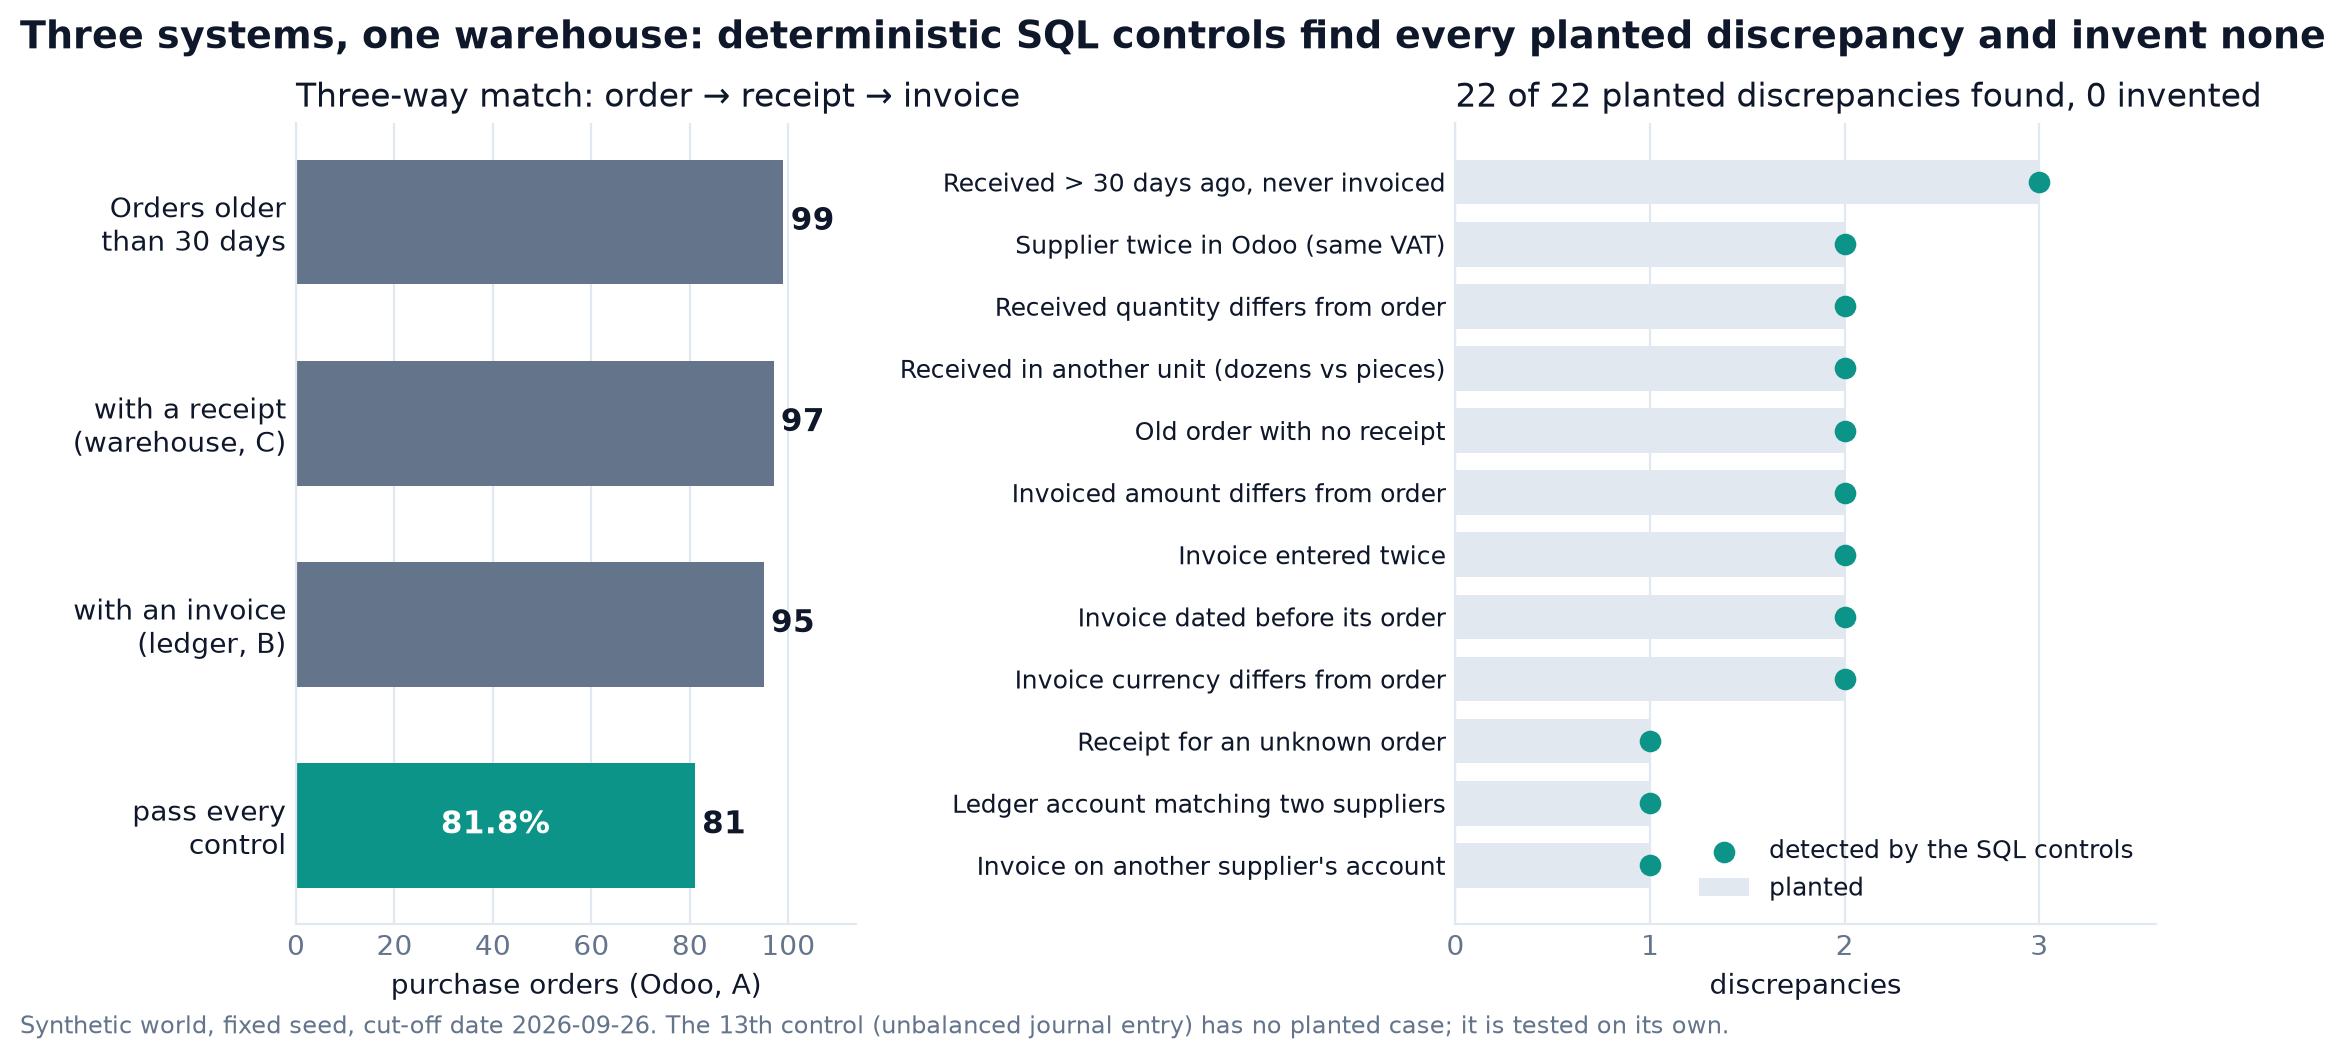
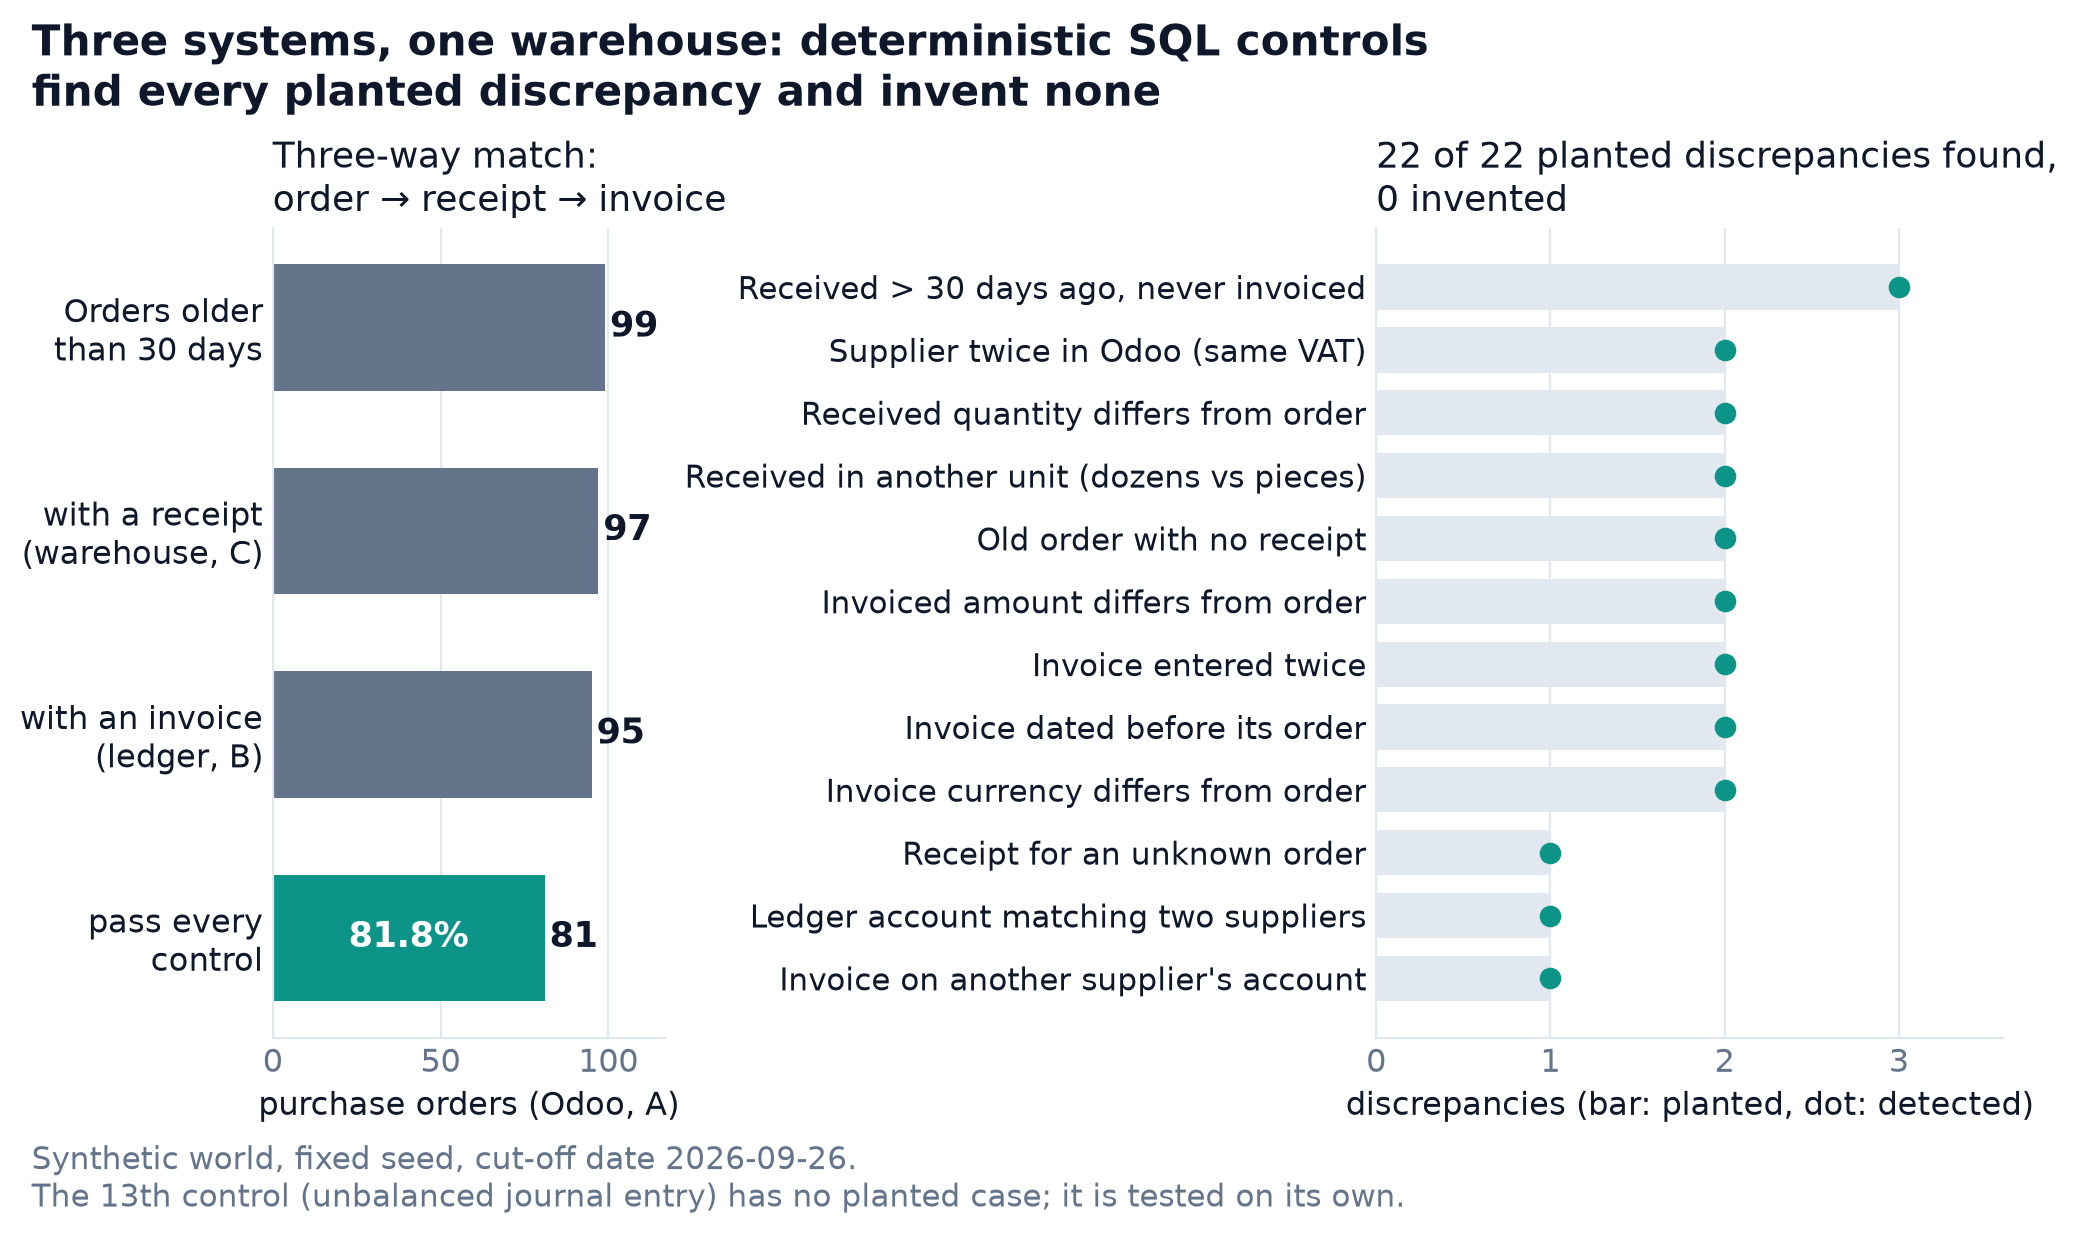
figures: hero labels readable at README width
Draw at 10 inches with 11-point labels instead of 12 inches with 9-point ones,
and label the planted/detected encoding on the axis instead of a legend that
covered the last rows. Same numbers, read from the warehouse.

Changed region(s): [[0.0, 0.0, 1.0, 0.9348], [0.0, 0.6856, 0.7395, 0.9972], [0.0, 0.5297, 0.339, 0.6544]]

diff --git a/scripts/hero_figure.py b/scripts/hero_figure.py
@@ -64,9 +64,18 @@ def main() -> None:
         raise SystemExit(f"no English label for {sorted(inconnues)}")
 
     plt.rcParams.update(
-        {"font.family": "DejaVu Sans", "text.color": INK, "axes.labelcolor": INK, "xtick.color": SLATE, "ytick.color": INK}
+        {
+            "font.family": "DejaVu Sans",
+            "font.size": 11.5,
+            "text.color": INK,
+            "axes.labelcolor": INK,
+            "xtick.color": SLATE,
+            "ytick.color": INK,
+        }
     )
-    fig, (gauche, droite) = plt.subplots(1, 2, figsize=(12, 5.2), gridspec_kw={"width_ratios": [1, 1.25], "wspace": 0.95})
+    # GitHub shows README images about 840 px wide: at 10 inches and 200 dpi, 11-point labels stay
+    # about 12 px on screen.
+    fig, (gauche, droite) = plt.subplots(1, 2, figsize=(10, 5.6), layout="constrained", gridspec_kw={"width_ratios": [1, 1.6]})
 
     # Left: the three-way match on purchase orders older than 30 days. Each bar counts from the
     # first one (an order can be invoiced without a receipt), so they are not nested subsets.
@@ -79,9 +88,9 @@ def main() -> None:
     y = range(len(etapes))[::-1]
     couleurs = [SLATE, SLATE, SLATE, TEAL]
     gauche.barh(list(y), [n for _, n in etapes], color=couleurs, height=0.62)
-    gauche.set_yticks(list(y), [e for e, _ in etapes], fontsize=10)
+    gauche.set_yticks(list(y), [e for e, _ in etapes], fontsize=11.5)
     for yi, (_, n) in zip(y, etapes, strict=True):
-        gauche.text(n + 1.5, yi, str(n), va="center", fontsize=11, color=INK, fontweight="bold")
+        gauche.text(n + 1.5, yi, str(n), va="center", fontsize=12.5, color=INK, fontweight="bold")
     part = voies["conformes"] / voies["commandes"]
     gauche.text(
         voies["conformes"] / 2,
@@ -90,26 +99,28 @@ def main() -> None:
         va="center",
         ha="center",
         color="white",
-        fontsize=11,
+        fontsize=12.5,
         fontweight="bold",
     )
-    gauche.set_xlim(0, voies["commandes"] * 1.15)
+    gauche.set_xlim(0, voies["commandes"] * 1.18)
     gauche.set_xlabel("purchase orders (Odoo, A)")
-    gauche.set_title("Three-way match: order → receipt → invoice", loc="left", fontsize=12, color=INK)
+    gauche.set_title("Three-way match:\norder → receipt → invoice", loc="left", fontsize=13, color=INK)
 
     # Right: planted vs detected, per control.
     n_plantes, n_detectes = Counter(r for r, _ in plantes), Counter(r for r, _ in detectes)
     ordre = sorted(CONTROLES, key=lambda r: (n_plantes[r], CONTROLES[r]))
     yy = range(len(ordre))
-    droite.barh(list(yy), [n_plantes[r] for r in ordre], color=GRID, height=0.72, label="planted")
-    droite.scatter([n_detectes[r] for r in ordre], list(yy), color=TEAL, s=46, zorder=3, label="detected by the SQL controls")
-    droite.set_yticks(list(yy), [CONTROLES[r] for r in ordre], fontsize=9)
+    droite.barh(list(yy), [n_plantes[r] for r in ordre], color=GRID, height=0.72)
+    droite.scatter([n_detectes[r] for r in ordre], list(yy), color=TEAL, s=46, zorder=3)
+    droite.set_yticks(list(yy), [CONTROLES[r] for r in ordre], fontsize=11)
     droite.set_xticks(range(0, max(n_plantes.values()) + 1))
     droite.set_xlim(0, max(n_plantes.values()) + 0.6)
-    droite.set_xlabel("discrepancies")
-    droite.legend(loc="lower right", frameon=False, fontsize=9)
+    droite.set_xlabel("discrepancies (bar: planted, dot: detected)")
     droite.set_title(
-        f"{retrouves} of {len(plantes)} planted discrepancies found, {faux_positifs} invented", loc="left", fontsize=12, color=INK
+        f"{retrouves} of {len(plantes)} planted discrepancies found,\n{faux_positifs} invented",
+        loc="left",
+        fontsize=13,
+        color=INK,
     )
 
     for ax in (gauche, droite):
@@ -120,19 +131,21 @@ def main() -> None:
         ax.set_axisbelow(True)
 
     fig.suptitle(
-        "Three systems, one warehouse: deterministic SQL controls find every planted discrepancy and invent none",
+        "Three systems, one warehouse: deterministic SQL controls\nfind every planted discrepancy and invent none",
         x=0.01,
         ha="left",
-        fontsize=13.5,
+        fontsize=15,
         fontweight="bold",
         color=INK,
     )
     as_of = entrepot._lignes(cfg.entrepot, "SELECT as_of FROM parametres")[0]["as_of"]
     fig.text(
         0.01,
-        0.005,
-        f"Synthetic world, fixed seed, cut-off date {as_of}. The 13th control (unbalanced journal entry) has no planted case; it is tested on its own.",
-        fontsize=8.5,
+        -0.01,
+        f"Synthetic world, fixed seed, cut-off date {as_of}.\n"
+        "The 13th control (unbalanced journal entry) has no planted case; it is tested on its own.",
+        va="top",
+        fontsize=11,
         color=SLATE,
     )
     SORTIE.parent.mkdir(parents=True, exist_ok=True)
